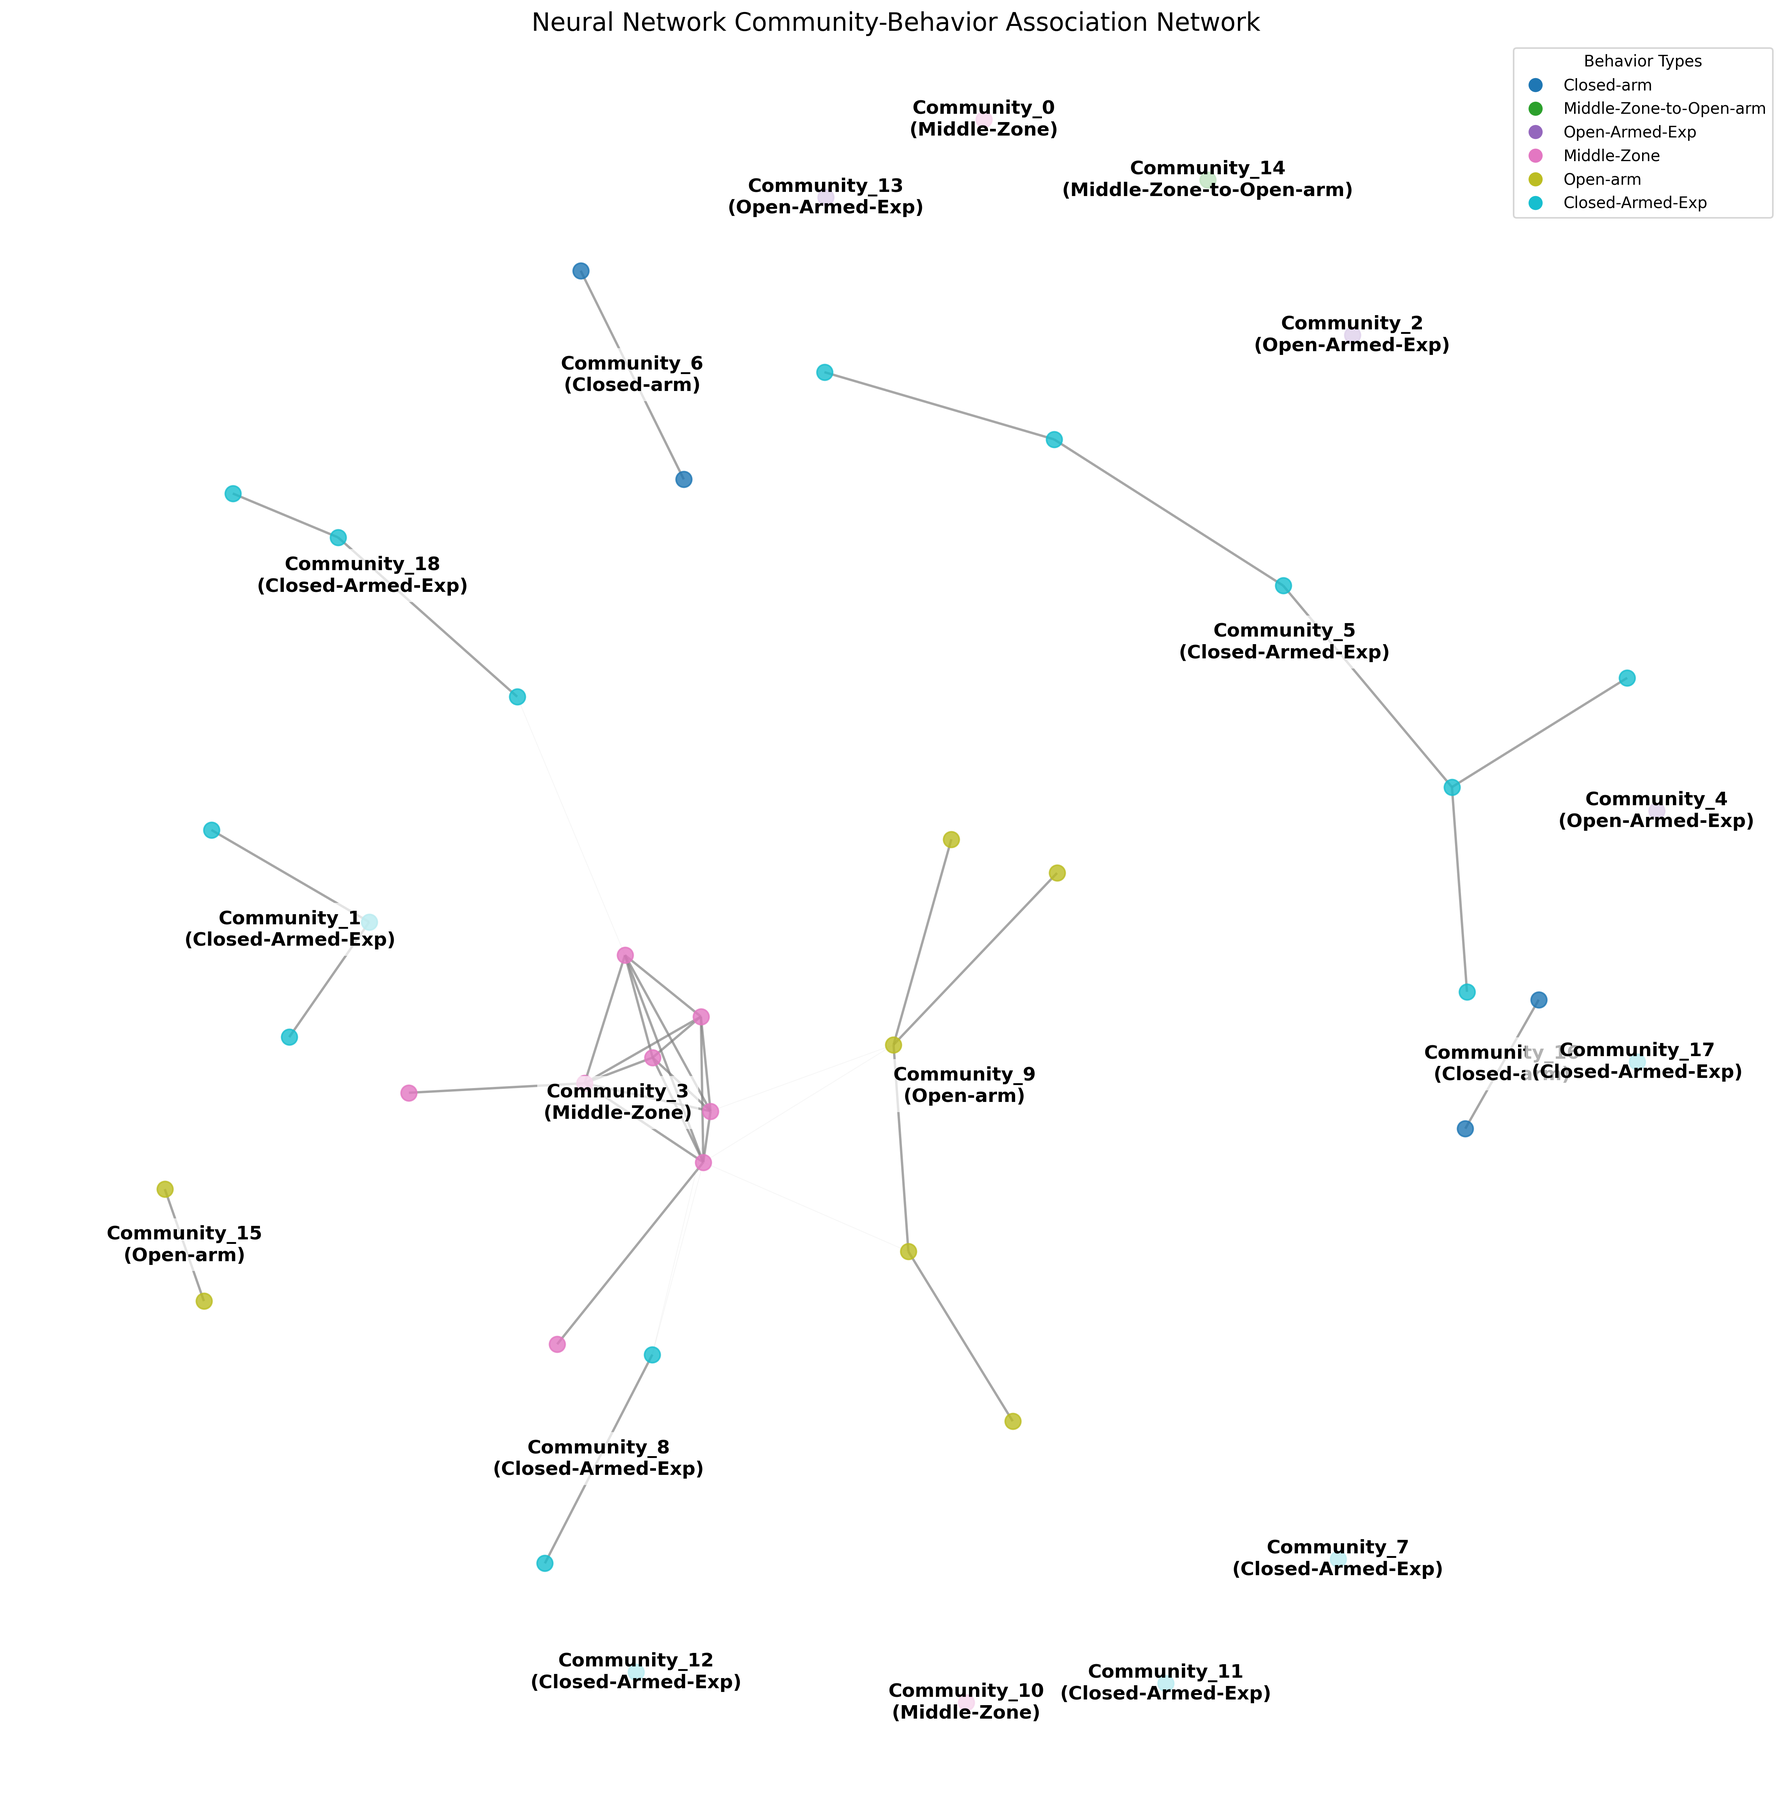
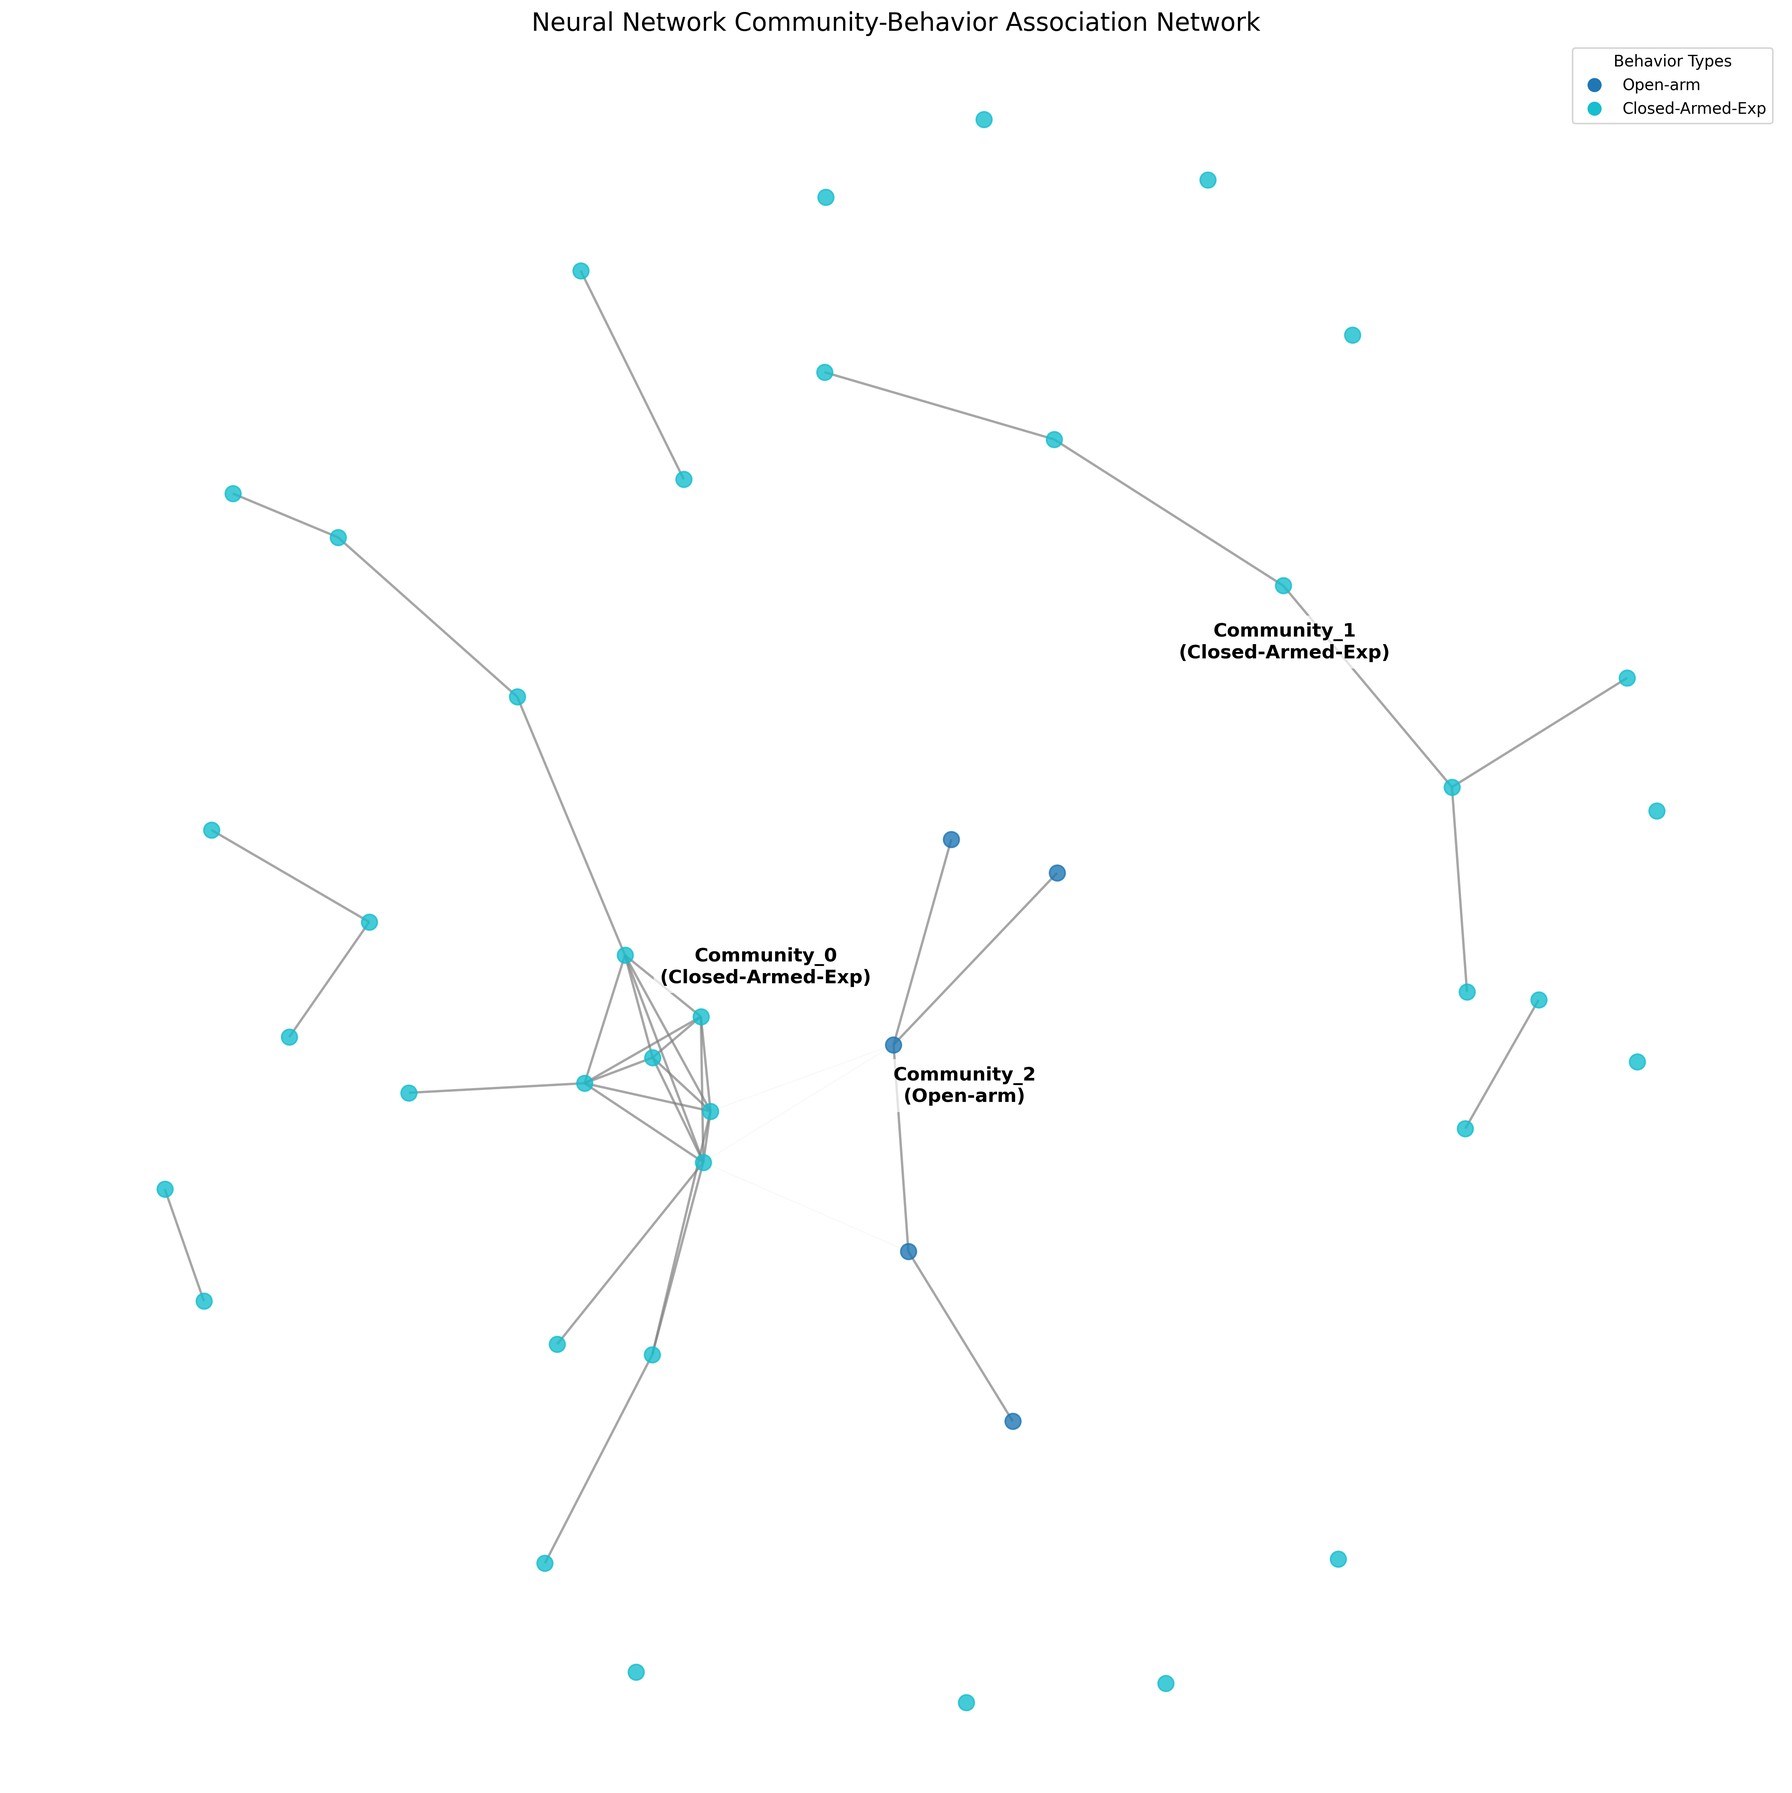
减小社区数量

diff --git a/bettergcn/src/analysis.py b/bettergcn/src/analysis.py
@@ -10,6 +10,8 @@ import pandas as pd
 from scipy.stats import chi2_contingency
 from sklearn.manifold import TSNE
 from sklearn.metrics.pairwise import cosine_similarity
+from scipy.cluster.hierarchy import linkage, fcluster
+from scipy.spatial.distance import squareform
 
 # 导入项目中的其他模块
 from model import ImprovedGCN
@@ -120,18 +122,21 @@ class GCNVisualizer:
         
         return model
     
-    def detect_communities(self):
+    def detect_communities(self, resolution=1.0):
         """
         使用Louvain算法检测图中的社区结构
         
+        参数:
+            resolution: 分辨率参数，值越大社区数量越多，越小社区数量越少
+            
         返回:
             communities: 节点-社区映射字典，键为节点ID，值为社区ID
         """
-        print("\n开始进行社区检测...")
+        print(f"\n开始进行社区检测 (分辨率: {resolution})...")
         
         try:
             # 使用Louvain方法检测社区
-            communities = community_louvain.best_partition(self.G)
+            communities = community_louvain.best_partition(self.G, resolution=resolution)
             
             # 统计社区信息
             community_count = Counter(communities.values())
@@ -166,6 +171,225 @@ class GCNVisualizer:
             import traceback
             print(f"错误详情:\n{traceback.format_exc()}")
             return {}
+    
+    def hierarchical_community_detection(self, n_communities=10):
+        """
+        使用层次聚类方法得到指定数量的社区
+        
+        参数:
+            n_communities: 目标社区数量
+            
+        返回:
+            communities: 节点-社区映射字典
+        """
+        print(f"\n开始使用层次聚类进行社区检测 (目标社区数: {n_communities})...")
+        
+        try:
+            # 获取邻接矩阵
+            adj_matrix = nx.to_numpy_array(self.G)
+            
+            # 将权重转换为距离矩阵：高权重(高相似度)=低距离
+            # 对于没有连接的节点对，距离设为最大值1.0
+            dist_matrix = 1.0 - adj_matrix
+            
+            # 确保对角线为0，这是scipy.spatial.distance.squareform的要求
+            np.fill_diagonal(dist_matrix, 0)
+            
+            # 压缩距离矩阵为压缩距离向量（层次聚类算法需要）
+            condensed_dist = squareform(dist_matrix)
+            
+            # 进行层次聚类 - 使用Ward方法，最小化聚类内方差
+            print("正在进行层次聚类...")
+            Z = linkage(condensed_dist, method='ward')
+            
+            # 切割树状图得到指定数量的社区
+            print(f"截断聚类树以得到{n_communities}个社区...")
+            labels = fcluster(Z, n_communities, criterion='maxclust')
+            
+            # 创建节点-社区映射
+            communities = {node: int(label-1) for node, label in zip(self.G.nodes(), labels)}
+            
+            # 统计社区信息
+            community_count = Counter(communities.values())
+            community_sizes = sorted([(comm, count) for comm, count in community_count.items()], 
+                                    key=lambda x: x[1], reverse=True)
+            
+            actual_n_communities = len(set(communities.values()))
+            print(f"层次聚类完成，共生成了{actual_n_communities}个社区")
+            print("社区大小分布:")
+            for i, (comm_id, size) in enumerate(community_sizes):
+                print(f"  社区 {comm_id}: {size}个节点")
+            
+            # 为不同社区分配不同颜色
+            community_colors = [
+                "#FF6347", "#4682B4", "#32CD32", "#FFD700", "#9370DB", 
+                "#20B2AA", "#FF69B4", "#8A2BE2", "#00CED1", "#FF8C00",
+                "#1E90FF", "#FF1493", "#00FA9A", "#DC143C", "#BA55D3"
+            ]
+            
+            # 确保颜色足够
+            if actual_n_communities > len(community_colors):
+                community_colors = community_colors * (actual_n_communities // len(community_colors) + 1)
+                
+            # 存储检测结果
+            self.communities = communities
+            self.community_colors = community_colors
+            
+            # 可视化层次聚类树状图
+            self._visualize_dendrogram(Z, n_communities)
+            
+            return communities
+            
+        except Exception as e:
+            print(f"层次聚类社区检测失败: {str(e)}")
+            import traceback
+            print(f"错误详情:\n{traceback.format_exc()}")
+            return {}
+    
+    def _visualize_dendrogram(self, Z, n_clusters, max_d=None):
+        """
+        可视化层次聚类的树状图
+        
+        参数:
+            Z: 层次聚类的结果
+            n_clusters: 社区数量
+            max_d: 最大距离阈值，用于在图上显示截断线
+        """
+        from scipy.cluster.hierarchy import dendrogram
+        
+        plt.figure(figsize=(12, 8))
+        plt.title('Neural Network Hierarchical Clustering Dendrogram', fontsize=16)
+        plt.xlabel('Neuron Index', fontsize=12)
+        plt.ylabel('Distance', fontsize=12)
+        
+        # 计算截断距离，如果未提供
+        if max_d is None:
+            # 找到产生n_clusters的距离
+            from scipy.cluster.hierarchy import fcluster
+            distances = Z[:, 2]
+            distances_sorted = np.sort(distances)
+            if len(distances) >= n_clusters:
+                # 由于Python索引从0开始，我们需要使用len(distances) - n_clusters + 1来获取正确的距离
+                threshold_idx = len(distances) - n_clusters + 1
+                if threshold_idx < len(distances):
+                    max_d = distances_sorted[threshold_idx]
+                else:
+                    max_d = distances_sorted[-1]
+            else:
+                max_d = distances_sorted[-1] if len(distances_sorted) > 0 else None
+        
+        # 绘制树状图
+        dendrogram(
+            Z,
+            truncate_mode='lastp',  # 显示最后的p个聚类
+            p=n_clusters * 2,       # 显示的节点数
+            leaf_rotation=90.,      # 旋转叶节点标签
+            leaf_font_size=10.,     # 叶节点标签的字体大小
+            show_contracted=True,   # 压缩非叶节点
+            color_threshold=max_d   # 颜色阈值
+        )
+        
+        # 添加截断线
+        if max_d:
+            plt.axhline(y=max_d, c='k', ls='--', lw=1)
+            plt.text(plt.xlim()[1] * 0.98, max_d, f'Cutoff Line (n_clusters={n_clusters})', 
+                    va='center', ha='right', bbox=dict(facecolor='white', alpha=0.7))
+        
+        # 保存图像
+        output_path = os.path.join(self.output_dir, 'hierarchy_dendrogram.png')
+        plt.tight_layout()
+        plt.savefig(output_path, dpi=300, bbox_inches='tight')
+        plt.close()
+        
+        print(f"层次聚类树状图已保存至: {output_path}")
+        return output_path
+    
+    def merge_small_communities(self, min_size=5):
+        """
+        合并小社区到最相近的大社区
+        
+        参数:
+            min_size: 小于此大小的社区将被合并
+            
+        返回:
+            new_communities: 合并后的社区映射
+        """
+        if self.communities is None:
+            print("请先运行社区检测再合并小社区")
+            return None
+            
+        print(f"\n开始合并小于{min_size}节点的社区...")
+        
+        # 统计每个社区的大小
+        community_count = Counter(self.communities.values())
+        community_sizes = {comm: count for comm, count in community_count.items()}
+        
+        # 找出小社区
+        small_communities = {c for c, size in community_sizes.items() if size < min_size}
+        
+        if not small_communities:
+            print("没有发现小于阈值的社区，无需合并")
+            return self.communities
+            
+        print(f"发现{len(small_communities)}个小于{min_size}节点的社区，开始合并...")
+        
+        # 计算社区间连接强度
+        community_connections = defaultdict(lambda: defaultdict(float))
+        
+        for u, v, data in self.G.edges(data=True):
+            if u in self.communities and v in self.communities:
+                c1, c2 = self.communities[u], self.communities[v]
+                if c1 != c2:  # 不同社区之间的连接
+                    weight = data.get('weight', 1.0)
+                    community_connections[c1][c2] += weight
+                    community_connections[c2][c1] += weight
+        
+        # 复制原始社区结果
+        new_communities = dict(self.communities)
+        
+        # 处理每个小社区
+        for small_comm in small_communities:
+            # 找到连接最强的大社区
+            best_target = None
+            max_strength = -1
+            
+            for target_comm, strength in community_connections[small_comm].items():
+                if target_comm not in small_communities and strength > max_strength:
+                    best_target = target_comm
+                    max_strength = strength
+            
+            # 如果找不到连接的大社区，则找最大的社区
+            if best_target is None:
+                large_comms = [(c, size) for c, size in community_sizes.items() if c not in small_communities]
+                if large_comms:
+                    best_target = max(large_comms, key=lambda x: x[1])[0]
+                    
+            # 合并社区
+            if best_target is not None:
+                for node, comm in self.communities.items():
+                    if comm == small_comm:
+                        new_communities[node] = best_target
+                print(f"社区 {small_comm} (大小: {community_sizes[small_comm]}) 已合并到社区 {best_target} (大小: {community_sizes[best_target]})")
+        
+        # 重新映射社区ID为连续数字
+        unique_communities = sorted(set(new_communities.values()))
+        comm_mapping = {old: new for new, old in enumerate(unique_communities)}
+        new_communities = {node: comm_mapping[comm] for node, comm in new_communities.items()}
+        
+        # 更新类属性
+        self.communities = new_communities
+        
+        # 重新统计并打印社区信息
+        community_count = Counter(new_communities.values())
+        community_sizes = sorted([(comm, count) for comm, count in community_count.items()], 
+                                key=lambda x: x[1], reverse=True)
+        
+        print(f"合并后共有{len(community_sizes)}个社区")
+        print("合并后社区大小分布（前5个）:")
+        for i, (comm_id, size) in enumerate(community_sizes[:5]):
+            print(f"  社区 {comm_id}: {size}个节点")
+            
+        return new_communities
     
     def visualize_communities(self, output_path=None, title="Neural Network Community Structure"):
         """
@@ -577,16 +801,49 @@ def main():
     # 初始化可视化器
     visualizer = GCNVisualizer(base_path=dataset_base_path)
     
-    # 执行社区检测
+    print("\n=== 方法1: 使用Louvain算法检测社区（默认分辨率）===")
+    # 执行Louvain社区检测
     communities = visualizer.detect_communities()
-    
     # 可视化社区结构
-    community_viz_path = visualizer.visualize_communities()
-    
+    community_viz_path = visualizer.visualize_communities(output_path="../results/EMtrace01/louvain_communities.png", 
+                                                         title="Neural Network Community Structure (Louvain Algorithm)")
     # 分析社区与行为的关联
-    community_behavior_mapping = visualizer.analyze_community_behavior_association()
+    community_behavior_mapping = visualizer.analyze_community_behavior_association(
+                                                         output_path="../results/EMtrace01/louvain_community_behaviors.png")
     
-    print(f"可视化分析完成！所有结果已保存到{visualizer.output_dir}目录")
+    print("\n=== 方法2: 使用Louvain算法，降低分辨率控制社区数量 ===")
+    # 执行社区检测，降低分辨率
+    communities = visualizer.detect_communities(resolution=0.3)
+    # 可视化社区结构
+    community_viz_path = visualizer.visualize_communities(output_path="../results/EMtrace01/louvain_communities_low_res.png", 
+                                                         title="Neural Network Community Structure (Louvain Algorithm, Low Resolution)")
+    # 分析社区与行为的关联
+    community_behavior_mapping = visualizer.analyze_community_behavior_association(
+                                                         output_path="../results/EMtrace01/louvain_low_res_behaviors.png")
+    
+    print("\n=== 方法3: 使用层次聚类截断法控制社区数量 ===")
+    # 执行层次聚类，指定社区数量
+    communities = visualizer.hierarchical_community_detection(n_communities=10)
+    # 可视化社区结构
+    community_viz_path = visualizer.visualize_communities(output_path="../results/EMtrace01/hierarchical_communities.png", 
+                                                         title="Neural Network Community Structure (Hierarchical Clustering, 10 Communities)")
+    # 分析社区与行为的关联
+    community_behavior_mapping = visualizer.analyze_community_behavior_association(
+                                                         output_path="../results/EMtrace01/hierarchical_behaviors.png")
+    
+    print("\n=== 方法4: 合并小社区 ===")
+    # 使用Louvain算法检测社区
+    communities = visualizer.detect_communities()
+    # 合并小社区
+    merged_communities = visualizer.merge_small_communities(min_size=5)
+    # 可视化合并后的社区结构
+    community_viz_path = visualizer.visualize_communities(output_path="../results/EMtrace01/merged_communities.png", 
+                                                         title="Neural Network Community Structure (Merged Small Communities)")
+    # 分析社区与行为的关联
+    community_behavior_mapping = visualizer.analyze_community_behavior_association(
+                                                         output_path="../results/EMtrace01/merged_behaviors.png")
+    
+    print(f"\n可视化分析完成！所有结果已保存到{visualizer.output_dir}目录")
 
 
 if __name__ == "__main__":
